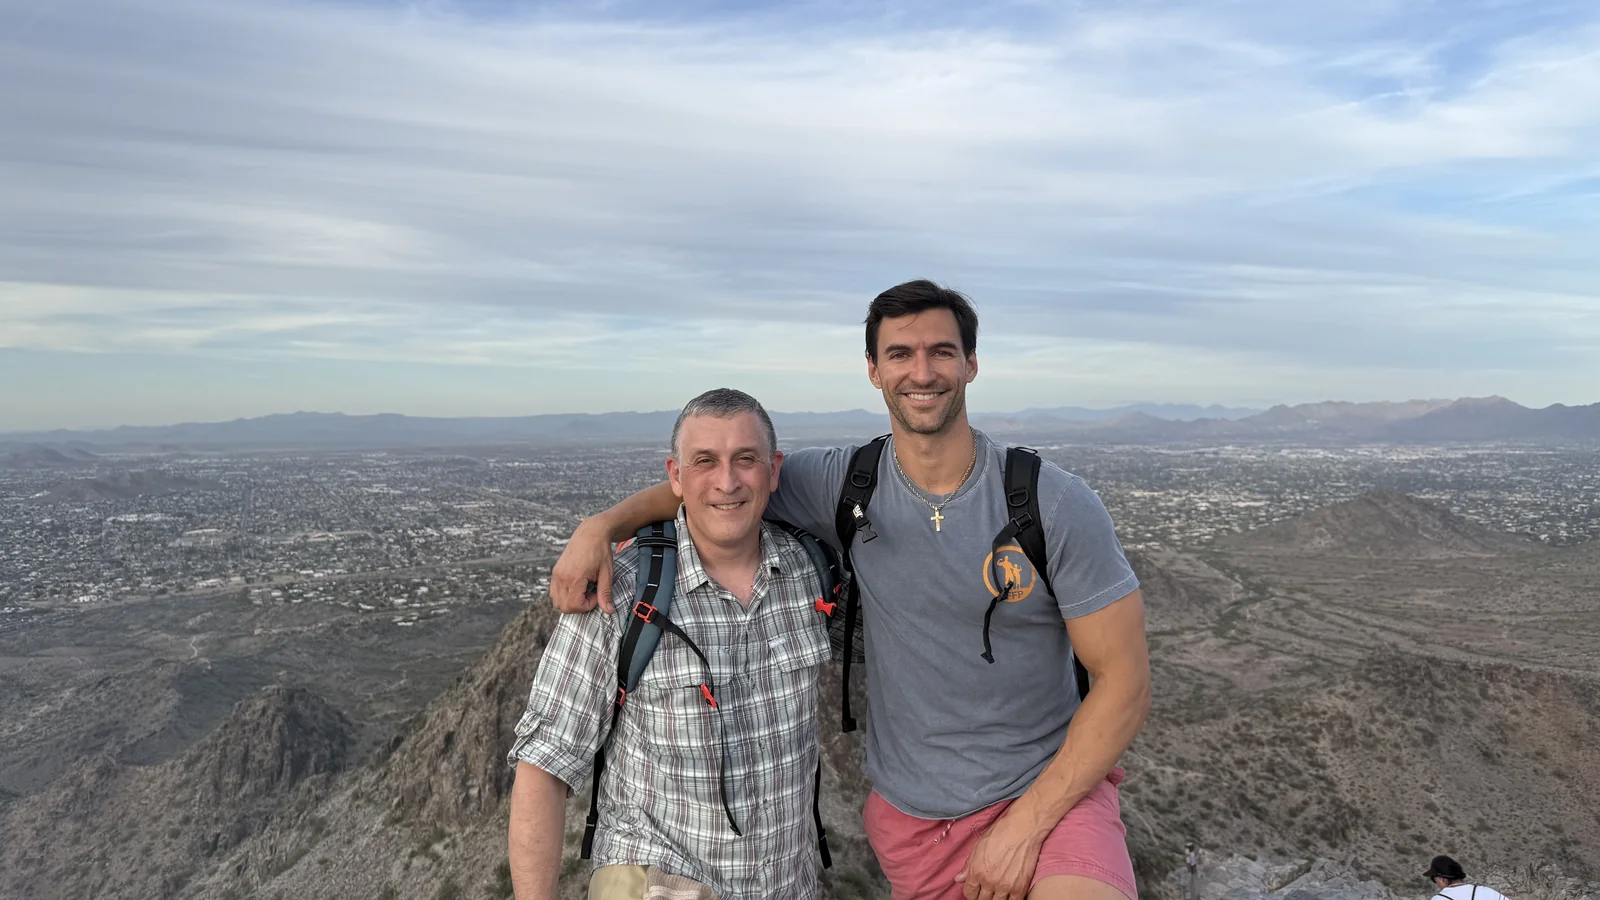
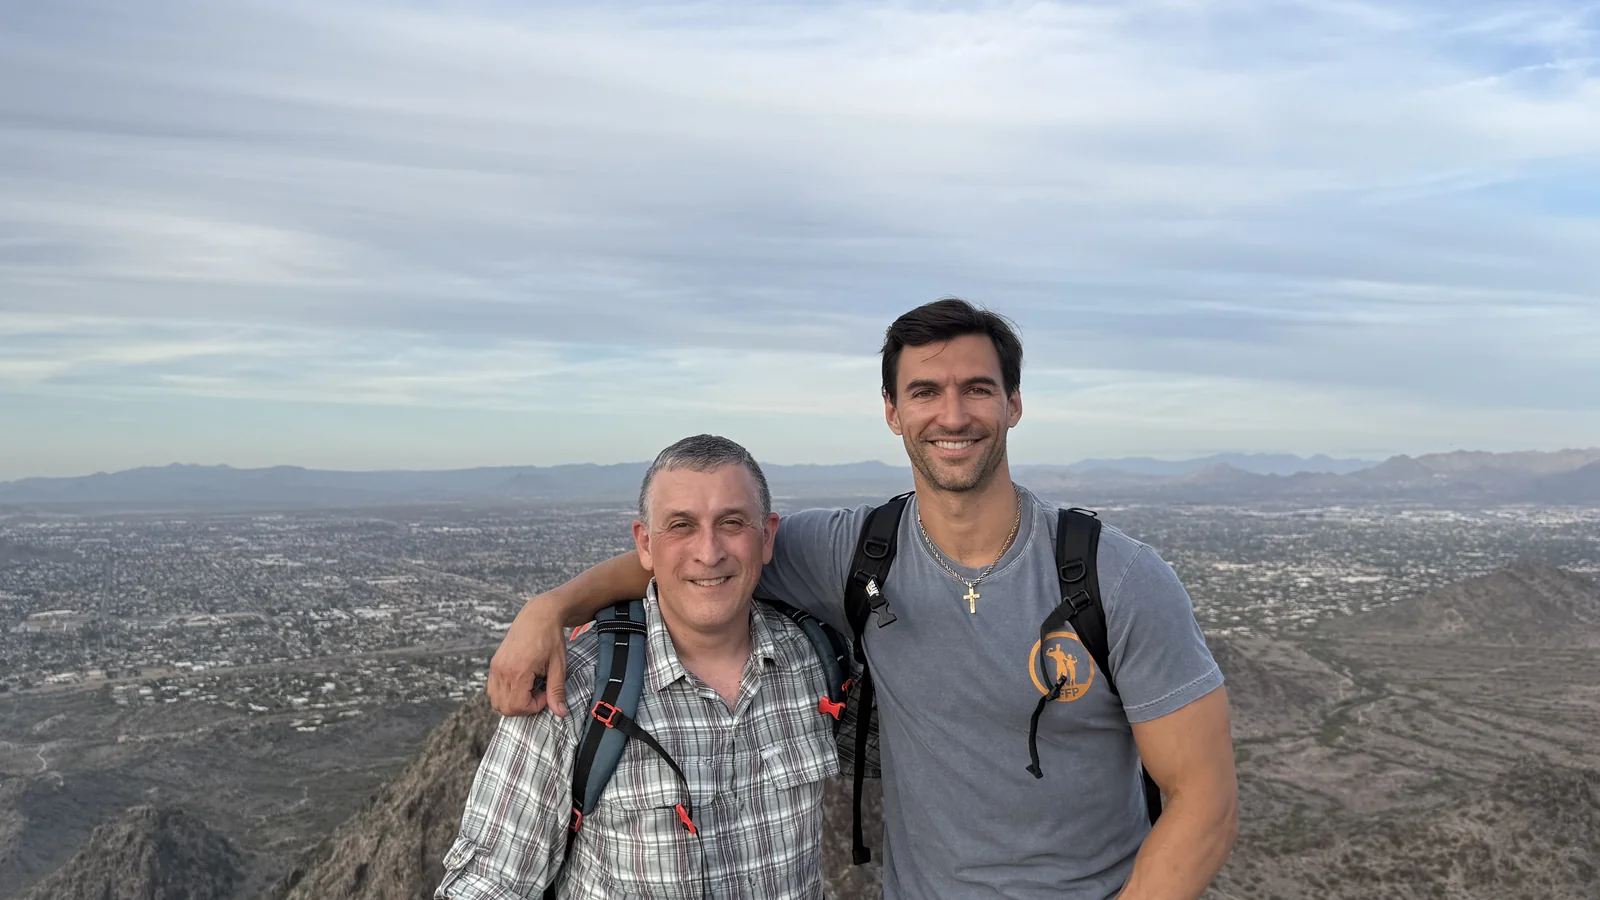
Zoom Nick photo 25%, drop 'Featured voices' eyebrow, drop Anthony+Brooke photo cap
- Reprocessed attendees/couple-nick-anthony.{webp,jpg} at 1.25x zoom (same
  1600x900 dimensions, but Nick + Anthony fill more of the frame to better
  balance the Brian & Renee Featured card).
- Removed the "Featured voices" eyebrow above the 2 big testimonial cards.
- Removed the "Anthony & Brooke · 2024" photo-caption that sat below the
  Founder Letter section.

diff --git a/index.html b/index.html
@@ -3046,7 +3046,6 @@ p:last-child { margin-bottom: 0; }
       <div class="signature">— Dr. Anthony Balduzzi</div>
     </div>
   </div>
-  <div class="photo-cap">Anthony &amp; Brooke · 2024</div>
 </section>
 
 <!-- ===== 2. PROMISE (Pivot section deleted; its message is now in the Letter) ===== -->
@@ -3079,7 +3078,6 @@ p:last-child { margin-bottom: 0; }
 
     <!-- Featured voices (2 big cards) -->
     <div class="couples-spotlight">
-      <div class="cs-eyebrow">Featured voices</div>
       <div class="cs-grid">
         <figure class="cs-card">
           <picture>